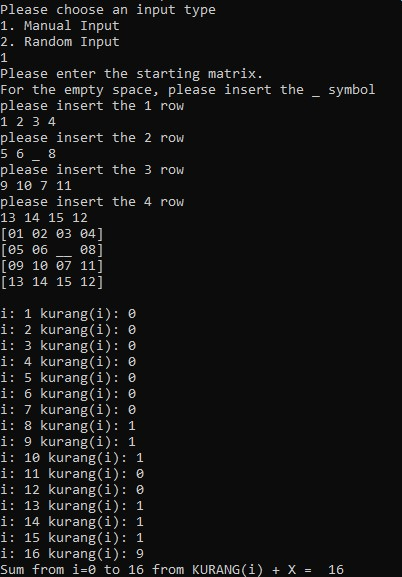
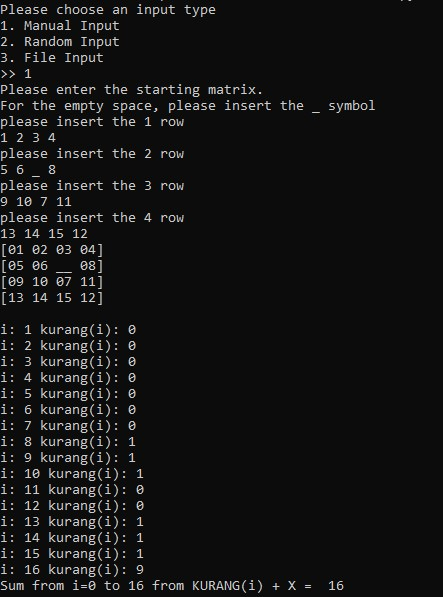
add input via input file
- menambah cara input: input via file
- memperbaiki komentar
- merapihkan output cli
- mengupdate readme

Changed region(s): [[0.0, 0.0, 0.7761, 1.0], [0.7164, 0.1248, 0.9254, 0.1872], [0.806, 0.9671, 0.8657, 0.9983]]

diff --git a/src/dist/js/app.8075a080.js b/src/dist/js/app.8075a080.js
@@ -1,0 +1,2 @@
+(function(){"use strict";var e={9504:function(e,a,r){var t=r(9242),o=r(3396),n=r(7139);const s=(0,o._)("section",{class:"title"},[(0,o._)("h1",null,"15-Puzzle"),(0,o._)("h2",null,"Steven - 13520131")],-1),l={class:"horizontal",style:{"justify-content":"center"}},d={class:"vertical",style:{"align-items":"center"}},i={key:0,class:"error-color"},u={class:"horizontal inner-div"},c={key:0,class:"horizontal"},p={class:"vertical result-div"},h=(0,o.Uk)(" Kurang: "),_={class:"horizontal"},b={class:"box"},f={class:"box"},v=(0,o.Uk)("Σ "),g=(0,o._)("sub",null,"i=0",-1),m=(0,o.Uk)(),y=(0,o._)("sup",null,"16",-1),w={class:"vertical result-div"},x=(0,o.Uk)(" Board: ");function k(e,a,r,t,k,q){const U=(0,o.up)("GameBoard");return(0,o.wg)(),(0,o.iD)(o.HY,null,[s,(0,o._)("div",l,[(0,o._)("div",d,[k.error?((0,o.wg)(),(0,o.iD)("div",i,(0,n.zw)(k.errorMessage),1)):(0,o.kq)("",!0),(0,o._)("div",u,[(0,o.Wm)(U,{ref:"gameBoard"},null,512),(0,o._)("button",{class:"calculate",onClick:a[0]||(a[0]=(...e)=>q.calculateBnb&&q.calculateBnb(...e))},"Calculate BnB")]),(0,o._)("input",{type:"file",onChange:a[1]||(a[1]=(...e)=>q.readFile&&q.readFile(...e)),ref:"fileInput"},null,544),(0,o._)("button",{onClick:a[2]||(a[2]=(...e)=>q.randomize&&q.randomize(...e)),class:"randomize"},"Randomize Squares"),(0,o._)("button",{onClick:a[3]||(a[3]=(...e)=>q.clearBoard&&q.clearBoard(...e))},"Clear Board"),(0,o._)("button",{onClick:a[4]||(a[4]=(...e)=>q.stopApp&&q.stopApp(...e))}," Quit App ")]),k.hasResult?((0,o.wg)(),(0,o.iD)("div",c,[(0,o._)("div",p,[h,((0,o.wg)(!0),(0,o.iD)(o.HY,null,(0,o.Ko)(k.kurang,(e=>((0,o.wg)(),(0,o.iD)("div",{key:e[0]},[(0,o._)("div",_,[(0,o._)("div",b,(0,n.zw)(e[0]),1),(0,o._)("div",f,(0,n.zw)(e[1]),1)])])))),128)),(0,o._)("div",null,[(0,o._)("p",null,[v,g,m,y,(0,o.Uk)(" KURANG(i) + X = "+(0,n.zw)(k.kurangX),1)])])]),(0,o._)("div",w,[x,((0,o.wg)(!0),(0,o.iD)(o.HY,null,(0,o.Ko)(k.boards,(e=>((0,o.wg)(),(0,o.iD)("div",{key:e.board_id},[(0,o.Wm)(U,{class:"gameboard-margin",square_values:e.board},null,8,["square_values"])])))),128))])])):(0,o.kq)("",!0)])],64)}const q={class:"vertical"},U={class:"horizontal"},V={class:"horizontal"},z={class:"horizontal"},B={class:"horizontal"};function M(e,a,r,n,s,l){return(0,o.wg)(),(0,o.iD)("div",q,[(0,o._)("div",U,[(0,o.wy)((0,o._)("input",{type:"text",class:"board-square","onUpdate:modelValue":a[0]||(a[0]=e=>s.board_data[0]=e)},null,512),[[t.nr,s.board_data[0]]]),(0,o.wy)((0,o._)("input",{type:"text",class:"board-square","onUpdate:modelValue":a[1]||(a[1]=e=>s.board_data[1]=e)},null,512),[[t.nr,s.board_data[1]]]),(0,o.wy)((0,o._)("input",{type:"text",class:"board-square","onUpdate:modelValue":a[2]||(a[2]=e=>s.board_data[2]=e)},null,512),[[t.nr,s.board_data[2]]]),(0,o.wy)((0,o._)("input",{type:"text",class:"board-square","onUpdate:modelValue":a[3]||(a[3]=e=>s.board_data[3]=e)},null,512),[[t.nr,s.board_data[3]]])]),(0,o._)("div",V,[(0,o.wy)((0,o._)("input",{type:"text",class:"board-square","onUpdate:modelValue":a[4]||(a[4]=e=>s.board_data[4]=e)},null,512),[[t.nr,s.board_data[4]]]),(0,o.wy)((0,o._)("input",{type:"text",class:"board-square","onUpdate:modelValue":a[5]||(a[5]=e=>s.board_data[5]=e)},null,512),[[t.nr,s.board_data[5]]]),(0,o.wy)((0,o._)("input",{type:"text",class:"board-square","onUpdate:modelValue":a[6]||(a[6]=e=>s.board_data[6]=e)},null,512),[[t.nr,s.board_data[6]]]),(0,o.wy)((0,o._)("input",{type:"text",class:"board-square","onUpdate:modelValue":a[7]||(a[7]=e=>s.board_data[7]=e)},null,512),[[t.nr,s.board_data[7]]])]),(0,o._)("div",z,[(0,o.wy)((0,o._)("input",{type:"text",class:"board-square","onUpdate:modelValue":a[8]||(a[8]=e=>s.board_data[8]=e)},null,512),[[t.nr,s.board_data[8]]]),(0,o.wy)((0,o._)("input",{type:"text",class:"board-square","onUpdate:modelValue":a[9]||(a[9]=e=>s.board_data[9]=e)},null,512),[[t.nr,s.board_data[9]]]),(0,o.wy)((0,o._)("input",{type:"text",class:"board-square","onUpdate:modelValue":a[10]||(a[10]=e=>s.board_data[10]=e)},null,512),[[t.nr,s.board_data[10]]]),(0,o.wy)((0,o._)("input",{type:"text",class:"board-square","onUpdate:modelValue":a[11]||(a[11]=e=>s.board_data[11]=e)},null,512),[[t.nr,s.board_data[11]]])]),(0,o._)("div",B,[(0,o.wy)((0,o._)("input",{type:"text",class:"board-square","onUpdate:modelValue":a[12]||(a[12]=e=>s.board_data[12]=e)},null,512),[[t.nr,s.board_data[12]]]),(0,o.wy)((0,o._)("input",{type:"text",class:"board-square","onUpdate:modelValue":a[13]||(a[13]=e=>s.board_data[13]=e)},null,512),[[t.nr,s.board_data[13]]]),(0,o.wy)((0,o._)("input",{type:"text",class:"board-square","onUpdate:modelValue":a[14]||(a[14]=e=>s.board_data[14]=e)},null,512),[[t.nr,s.board_data[14]]]),(0,o.wy)((0,o._)("input",{type:"text",class:"board-square","onUpdate:modelValue":a[15]||(a[15]=e=>s.board_data[15]=e)},null,512),[[t.nr,s.board_data[15]]])])])}var O={props:{square_values:Array},data(){return{board_data:this.square_values||[]}},mounted(){for(let e=this.board_data.length;e<16;++e)this.board_data.push("")},methods:{randomizeValues(){let e=[];for(let a=1;a<16;++a)e.push(`${a}`);e.push("");for(let a=e.length-1;a>0;--a){const r=Math.floor(Math.random()*(a+1));[e[a],e[r]]=[e[r],e[a]]}this.board_data=e},resetValues(){this.board_data=[];for(let e=this.board_data.length;e<16;++e)this.board_data.push("")},setValues(e){this.board_data=e;for(let a=this.board_data.length;a<16;++a)this.board_data.push("")}}},T=r(89);const C=(0,T.Z)(O,[["render",M]]);var A=C,D={name:"App",components:{GameBoard:A},data(){return{error:!1,errorMessage:"",hasResult:!1,kurang:[],boards:[],kurangX:0}},mounted(){const e=()=>{this.boards=[]};eel.expose(e,"reset_board");const a=e=>{for(let a=0;a<e.board.length;++a)-1==e.board[a]&&(e.board[a]="");this.boards.push(e)};eel.expose(a,"add_board");const r=e=>{this.kurangX=e};eel.expose(r,"set_kurang_x");const t=e=>{this.hasResult=!0,this.kurang=e};eel.expose(t,"set_kurang");const o=e=>{this.error=!0,this.errorMessage=e,this.boards=[]};eel.expose(o,"set_error")},methods:{randomize(){this.$refs.gameBoard.randomizeValues()},stopApp(){eel.stop_program(),window.close()},clearBoard(){this.hasResult=!1,this.$refs.gameBoard.resetValues(),this.error=!1},readFile(){let e=this.$refs.fileInput.files[0];const a=new FileReader;a.onload=e=>{let a=e.target.result;a=a.replace("\r","");let r=a.split("\n"),t=[],o=new Set;for(let n=0;n<r.length;++n){let e=r[n].split(" ");if(4!=e.length)return this.error=!0,void(this.errorMessage="The file doesn't contain enough data");for(let a=0;a<e.length;++a){if(0!=o.has(e[a]))return this.error=!0,void(this.errorMessage="There's a duplicate value");if(o.add(e[a]),"_"==e[a]){t.push("");continue}if(e[a].indexOf(".")>1)return this.error=!0,void(this.errorMessage="There's non-integer value");let r=parseInt(e[a]);if(isNaN(r))return this.error=!0,void(this.errorMessage="There's non integer value");if(r<1||r>15)return this.error=!0,void(this.errorMessage="There's value out of range");t.push(e[a])}}this.$refs.gameBoard.setValues(t)},a.readAsText(e)},calculateBnb(){let e=this.$refs.gameBoard.board_data,a=[],r=new Set;for(let t=0;t<e.length;++t){if(!1!==r.has(e[t]))return this.error=!0,void(this.errorMessage="The board contains duplicate value");if(r.add(e[t]),""==e[t]){a.push(-1);continue}e[t].indexOf(".")>-1&&(this.error=!0,this.errorMessage="The board contains non integer value");let o=parseInt(e[t]);if(isNaN(o))return this.error=!0,void(this.errorMessage="The board contains non integer value");if(o<1||o>15)return this.error=!0,void(this.errorMessage="There's a number out of range");a.push(o)}this.error=!1,eel.calculate_bnb(a)}}};const j=(0,T.Z)(D,[["render",k]]);var R=j;(0,t.ri)(R).mount("#app")}},a={};function r(t){var o=a[t];if(void 0!==o)return o.exports;var n=a[t]={exports:{}};return e[t](n,n.exports,r),n.exports}r.m=e,function(){var e=[];r.O=function(a,t,o,n){if(!t){var s=1/0;for(u=0;u<e.length;u++){t=e[u][0],o=e[u][1],n=e[u][2];for(var l=!0,d=0;d<t.length;d++)(!1&n||s>=n)&&Object.keys(r.O).every((function(e){return r.O[e](t[d])}))?t.splice(d--,1):(l=!1,n<s&&(s=n));if(l){e.splice(u--,1);var i=o();void 0!==i&&(a=i)}}return a}n=n||0;for(var u=e.length;u>0&&e[u-1][2]>n;u--)e[u]=e[u-1];e[u]=[t,o,n]}}(),function(){r.n=function(e){var a=e&&e.__esModule?function(){return e["default"]}:function(){return e};return r.d(a,{a:a}),a}}(),function(){r.d=function(e,a){for(var t in a)r.o(a,t)&&!r.o(e,t)&&Object.defineProperty(e,t,{enumerable:!0,get:a[t]})}}(),function(){r.g=function(){if("object"===typeof globalThis)return globalThis;try{return this||new Function("return this")()}catch(e){if("object"===typeof window)return window}}()}(),function(){r.o=function(e,a){return Object.prototype.hasOwnProperty.call(e,a)}}(),function(){var e={143:0};r.O.j=function(a){return 0===e[a]};var a=function(a,t){var o,n,s=t[0],l=t[1],d=t[2],i=0;if(s.some((function(a){return 0!==e[a]}))){for(o in l)r.o(l,o)&&(r.m[o]=l[o]);if(d)var u=d(r)}for(a&&a(t);i<s.length;i++)n=s[i],r.o(e,n)&&e[n]&&e[n][0](),e[n]=0;return r.O(u)},t=self["webpackChunktugas_kecil_3_2022"]=self["webpackChunktugas_kecil_3_2022"]||[];t.forEach(a.bind(null,0)),t.push=a.bind(null,t.push.bind(t))}();var t=r.O(void 0,[998],(function(){return r(9504)}));t=r.O(t)})();
+//# sourceMappingURL=app.8075a080.js.map

diff --git a/src/src/App.vue b/src/src/App.vue
@@ -63,6 +63,72 @@ export default {
 		clearBoard() {
 			this.hasResult = false
 			this.$refs.gameBoard.resetValues()
+			this.error = false
+		},
+		readFile() {
+			let file = this.$refs.fileInput.files[0]
+			const reader = new FileReader()
+
+			reader.onload = (res) => {
+				let fullText = res.target.result
+				fullText = fullText.replace('\r', '')
+
+				let lines = fullText.split('\n')
+				
+				let squares = []
+
+				let square_set = new Set()
+				for(let i = 0; i < lines.length; ++i) {
+					let numbers = lines[i].split(' ')
+
+					if(numbers.length != 4) {
+						this.error = true
+						this.errorMessage = "The file doesn't contain enough data"
+						return
+					}
+
+					for(let j = 0; j < numbers.length; ++j) {
+						if(square_set.has(numbers[j]) == false) {
+							square_set.add(numbers[j])
+						} else {
+							this.error = true
+							this.errorMessage = "There's a duplicate value"
+							return
+						}
+
+						if(numbers[j] == '_') {
+							squares.push('')
+							continue
+						}
+
+						if(numbers[j].indexOf('.') > 1) {
+							this.error = true
+							this.errorMessage = "There's non-integer value"
+							return
+						}
+
+						let temp = parseInt(numbers[j])
+
+						if(isNaN(temp)) {
+							this.error = true
+							this.errorMessage = "There's non integer value"
+							return
+						}
+
+						if(temp < 1 || temp > 15) {
+							this.error = true
+							this.errorMessage = "There's value out of range"
+							return
+						}
+
+						squares.push(numbers[j])
+					}
+				}
+
+				this.$refs.gameBoard.setValues(squares)
+			}
+
+			reader.readAsText(file)
 		},
 		/**
 		 * fungsi ini berfungsi untuk menerima masukkan yang diterima dan mengecek
@@ -143,6 +209,7 @@ export default {
 				<GameBoard ref='gameBoard'/>
 				<button class='calculate' @click='calculateBnb'>Calculate BnB</button>
 			</div>
+			<input type='file' @change='readFile' ref='fileInput' />
 			<button @click='randomize' class='randomize'>Randomize Squares</button>
 			<button @click='clearBoard'>Clear Board</button>
 			<button @click='stopApp'> Quit App </button>
@@ -191,6 +258,12 @@ button {
 	width: 200px;
 	height: 100px;
 	font-size: 30px;
+}
+
+input {
+	width: 200px;
+	height: 100px;
+	font-size: 15px;
 }
 
 div {

diff --git a/src/dist/css/app.0b966adf.css b/src/dist/css/app.0b966adf.css
@@ -1,0 +1,1 @@
+.vertical{display:flex;flex-direction:column}.horizontal{display:flex;flex-direction:row}.board-square{width:60px;height:60px;margin:0 0 0 0;font-size:40px}body,html{width:100%}body{background-color:#000}button{font-size:30px}button,input{width:200px;height:100px}input{font-size:15px}div,footer{font-size:50px;color:#fff}.inner-div{align-items:center}.calculate{margin-left:10px}.randomize{margin-top:10px}.error-color{color:red}.result-div{margin-left:30px}.box{width:120px;height:60px;background-color:#d3d3d3;border:1px solid #000;color:#000}.gameboard-margin{margin-top:30px}@-webkit-keyframes glow{0%{text-shadow:0 0 10px #fff,0 0 20px #fff,0 0 30px #122b7d,0 0 40px #122b7d,0 0 50px #122b7d,0 0 60px #122b7d,0 0 70px #122b7d}to{text-shadow:0 0 10px #fff,0 0 20px #fff,0 0 30px #122b7d,0 0 40px #122b7d,0 0 50px #122b7d,0 0 60px #122b7d,0 0 70px #122b7d}}@-webkit-keyframes breathing-glow{0%{text-shadow:0 0 10px #fff,0 0 20px #fff,0 0 30px #122b7d,0 0 40px #122b7d,0 0 50px #122b7d,0 0 60px #122b7d,0 0 70px #122b7d}to{text-shadow:0 0 20px #fff,0 0 30px #6b2db2,0 0 40px #6b2db2,0 0 50px #6b2db2,0 0 60px #6b2db2,0 0 70px #6b2db2,0 0 80px #6b2db2}}.title{font-size:40px;color:#fff;text-align:center;-webkit-animation:breathing-glow 1s ease-in-out infinite alternate;animation:breathing-glow 1s ease-in-out infinite alternate}

diff --git a/src/dist/index.html b/src/dist/index.html
@@ -1,1 +1,1 @@
-<!doctype html><html lang=""><head><meta charset="utf-8"><meta http-equiv="X-UA-Compatible" content="IE=edge"><meta name="viewport" content="width=device-width,initial-scale=1"><link rel="icon" href="/favicon.ico"><title>tugas-kecil-3-2022</title><script src="/eel.js"></script><script defer="defer" src="/js/chunk-vendors.2344a26c.js"></script><script defer="defer" src="/js/app.45ef3cbb.js"></script><link href="/css/app.a82d1f7f.css" rel="stylesheet"></head><body><noscript><strong>We're sorry but tugas-kecil-3-2022 doesn't work properly without JavaScript enabled. Please enable it to continue.</strong></noscript><div id="app"></div></body></html>
+<!doctype html><html lang=""><head><meta charset="utf-8"><meta http-equiv="X-UA-Compatible" content="IE=edge"><meta name="viewport" content="width=device-width,initial-scale=1"><link rel="icon" href="/favicon.ico"><title>tugas-kecil-3-2022</title><script src="/eel.js"></script><script defer="defer" src="/js/chunk-vendors.2344a26c.js"></script><script defer="defer" src="/js/app.8075a080.js"></script><link href="/css/app.0b966adf.css" rel="stylesheet"></head><body><noscript><strong>We're sorry but tugas-kecil-3-2022 doesn't work properly without JavaScript enabled. Please enable it to continue.</strong></noscript><div id="app"></div></body></html>

diff --git a/src/src/components/GameBoard.vue b/src/src/components/GameBoard.vue
@@ -31,6 +31,12 @@ export default {
 			for(let i = this.board_data.length; i < 16; ++i) {
 				this.board_data.push('')
 			}
+		},
+		setValues(newValue) {
+			this.board_data = newValue
+			for(let i = this.board_data.length; i < 16; ++i) {
+			this.board_data.push('')
+		}
 		}
 	}
 }

diff --git a/src/cli.py b/src/cli.py
@@ -1,10 +1,10 @@
 from board import Board
-from handle_input import manual_input, random_input
+from handle_input import manual_input, random_input, file_input
 from time import time
 from functools import cmp_to_key
 
 '''
-	fungsi untuk untuk dimasukkan ke dalam key
+	fungsi untuk dimasukkan ke dalam parameter key
 	di dalam fungsi min(), mengembalikan tuple dimana
 	elem[0] merupakan level dan elem[1] merupakan cost
 '''
@@ -20,6 +20,7 @@ def bnb_cmp(a, b):
 			 return -1
 		else:
 			return 0
+
 '''	
 	fungsi untuk mendapatkan semua angka yang lebih kecil dari X
 	dengan constraint lebih besar dari 1
@@ -34,7 +35,7 @@ def get_smaller_number_list(number):
 
 '''
 	fungsi ini untuk mendapatkan apakah kurang nanti akan
-	ditamabah 1 atau 0. Fungsi ini mendapatkan hasil tersebut dengan patterm
+	ditambah 1 atau 0. Fungsi ini mendapatkan hasil tersebut dengan patterm
 	apabila index dari kosong yang terdapat pada board tersebut (asumsi mulai dari 0),
 	dibagi 4 dan dimod 2 haslinya sama dengan dimod 2 saja, maka tidak berada di area arsir, sebaliknya
 	apabila hasilnya dibagi 4 dan dimod 2 tidak sama dengan dimod 2 saja, maka berada di area arsir.
@@ -53,7 +54,6 @@ def get_kurang_x(board):
 	fungsi ini mengkalkulasi semua kurang()
 	dan mengembalikannya dalam bentuk list
 '''
-
 def get_kurang(board):
 	result = []
 	for index in range(len(board.square)):
@@ -79,7 +79,8 @@ def print_kurang(kurang):
 		print('i:', elem[0], 'kurang(i):', elem[1])
 
 '''
-	pruning setelah mendapatkan algoritma
+	pruning setelah mendapatkan solusi
+	dari algoritma branch and bound
 '''
 def prune(queue):
 	queue.empty()
@@ -102,13 +103,13 @@ def bnb(board):
 	checker = kurang_sum + x
 	print('Sum from i=0 to 16 from KURANG(i) + X = ', checker)
 	if checker % 2 != 0:
-		print('Status tujuan tidak dapat dicapai')
+		print('Status tujuan tidak dapat dicapai (Puzzle Unsolvable)')
 		return
 
 	queue = [(0, 0, board)]
 	set_board = {board}
 
-	print('Doing Branch and Bound')
+	print('\nDoing Branch and Bound')
 	print('--------------------------------------------------')
 
 	while True:
@@ -238,15 +239,21 @@ def main():
 	print('Please choose an input type')
 	print('1. Manual Input')
 	print('2. Random Input')
-	input_type = int(input())
+	print('3. File Input')
+	input_type = int(input('>> '))
 
 	board = None
 	if input_type == 1:
 		board = manual_input()
 	elif input_type == 2:
 		board = random_input()
+	elif input_type == 3:
+		board = file_input()
 	else:
 		main()
+		return
+
+	if board is None:
 		return
 	
 	start = time()	

diff --git a/src/handle_input.py b/src/handle_input.py
@@ -1,6 +1,43 @@
 from board import Board
 from random import shuffle, randint
 
+def file_input():
+	print('Please insert the file name')
+	filename = input()
+	board = Board()
+	try:
+		with open(filename, 'r') as f:
+			for line in f:
+				col_in = line.strip().split(' ')
+				if len(col_in) != 4:
+					print('the number of column doesn\'t match the required amount')
+					return None
+
+				int_form = []
+
+				for elem in col_in:
+					try:
+						if elem == '_':
+							int_form.append(-1)
+						else:
+							int_form.append(int(elem))
+							checker = int_form[-1]
+							if (checker < 1) and (checker > 16):
+								print('your input contains a number that is out of range')
+								return None
+					except ValueError:
+						print('one of your input doesn\'t contain integer')
+						return None
+
+				for elem in int_form:
+					if(not board.add_square(elem)):
+						print('There\'s a duplicate number in your board')
+						return None
+	except FileNotFoundError:
+		print('file not found')		
+
+	return board
+
 def manual_input():
 	print('Please enter the starting matrix.')
 	print('For the empty space, please insert the _ symbol')
@@ -19,11 +56,13 @@ def manual_input():
 		succeed = True
 
 		'''
-			This line of code receives the user input
-			and then afterwards, remove any trailing spaces from behind
-			and only after that, it splits the string into multiple substrings
-			with spaces as it's delimiter and converts it into list in order
-			to be proccesses
+			kode ini menerima inputan pengguna
+			lalu menghilangkan spasi yang di mana
+			setelah spasi tersebut dihilangkan,
+			dilakukan pemisahan string inputan menjadi
+			beberapa substring menggunakan spasi sebagai
+			pemisah dan mengkonversinya menjadi list
+			sehingga dapat diolah lebih lanjur
 		'''
 
 		user_in = list(input().strip().split(' '))

diff --git a/src/app.py b/src/app.py
@@ -4,7 +4,7 @@ from time import time
 from functools import cmp_to_key
 
 '''
-	fungsi untuk untuk dimasukkan ke dalam key
+	fungsi untuk dimasukkan ke dalam parameter key
 	di dalam fungsi min(), mengembalikan tuple dimana
 	elem[0] merupakan level dan elem[1] merupakan cost
 '''
@@ -20,6 +20,7 @@ def bnb_cmp(a, b):
 			 return -1
 		else:
 			return 0
+
 '''	
 	fungsi untuk mendapatkan semua angka yang lebih kecil dari X
 	dengan constraint lebih besar dari 1
@@ -53,7 +54,6 @@ def get_kurang_x(board):
 	fungsi ini mengkalkulasi semua kurang()
 	dan mengembalikannya dalam bentuk list
 '''
-
 def get_kurang(board):
 	result = []
 	for index in range(len(board.square)):
@@ -71,7 +71,8 @@ def get_kurang(board):
 	return result
 
 '''
-	pruning setelah mendapatkan algoritma
+	pruning setelah mendapatkan solusi
+	dari algoritma branch and bound
 '''
 def prune(queue):
 	queue.empty()
@@ -244,7 +245,9 @@ def main():
 	def stop_program():
 		exit()
 
-	eel.start('index.html') #, mode='edge')
+	#eel.start('index.html', mode='edge')
+	#eel.start('index.html', mode='chrome')
+	eel.start('index.html')
 
 
 if __name__ == '__main__':

diff --git a/README.md b/README.md
@@ -20,7 +20,7 @@
 
 ### CLI
 
-<strong>NOTE : </strong>Untuk input manual, kotak kosong dilambangkan dengan "\_" (<em>underscore</em>)
+<strong><em>NOTE</em> : </strong>Untuk input manual dan input file, kotak kosong dilambangkan dengan "\_" (<em>underscore</em>)
 
 1. Download/Clone Repository ini
 2. Buka Terminal
@@ -32,7 +32,9 @@
 
 ### GUI
 
-<strong>NOTE : </strong>Gunakan <em>Google Chrome</em> sebagai default browser
+<strong><em>NOTE</em> : </strong>Gunakan <em>Google Chrome</em> sebagai default browser<strong>
+
+<strong><em>NOTE</em> : </strong>Untuk input file, kotak kosong dilambangkan dengan "\_" (<em>underscore</em>)
 
 1. Download/Clone Repository ini
 2. Buka Windows Powershell
@@ -56,12 +58,21 @@
 
 ## Tampilan CLI
 
-### Tampilan Solveable
+### Tampilan Solveable Manual Input
 
 <table>
    <tr>
       <td> <img src="./a-readme-related/cli-s-1.jpg" /> </td>
       <td> <img src="./a-readme-related/cli-s-2.jpg" /> </td>
+   </tr>
+</table>
+
+### Tampilan Solveable File Input
+
+<table>
+   <tr>
+      <td> <img src="./a-readme-related/cli-s-3.jpg" /> </td>
+      <td> <img src="./a-readme-related/cli-s-4.jpg" /> </td>
    </tr>
 </table>
 
@@ -75,9 +86,13 @@
 
 ![Tampilan awal](./a-readme-related/gui-awal.jpg)
 
-### Tampilan Akhir Solveable
+### Tampilan Akhir Solveable Manual Input
 
-![Tampilan akhir](./a-readme-related/gui-akhir-s.jpg)
+![Tampilan akhir](./a-readme-related/gui-akhir-s-1.jpg)
+
+### Tampilan Akhir Solveable Input File
+
+![Tampilan akhir](./a-readme-related/gui-akhir-s-2.jpg)
 
 ### Tampilan Akhir Unsolvable
 
